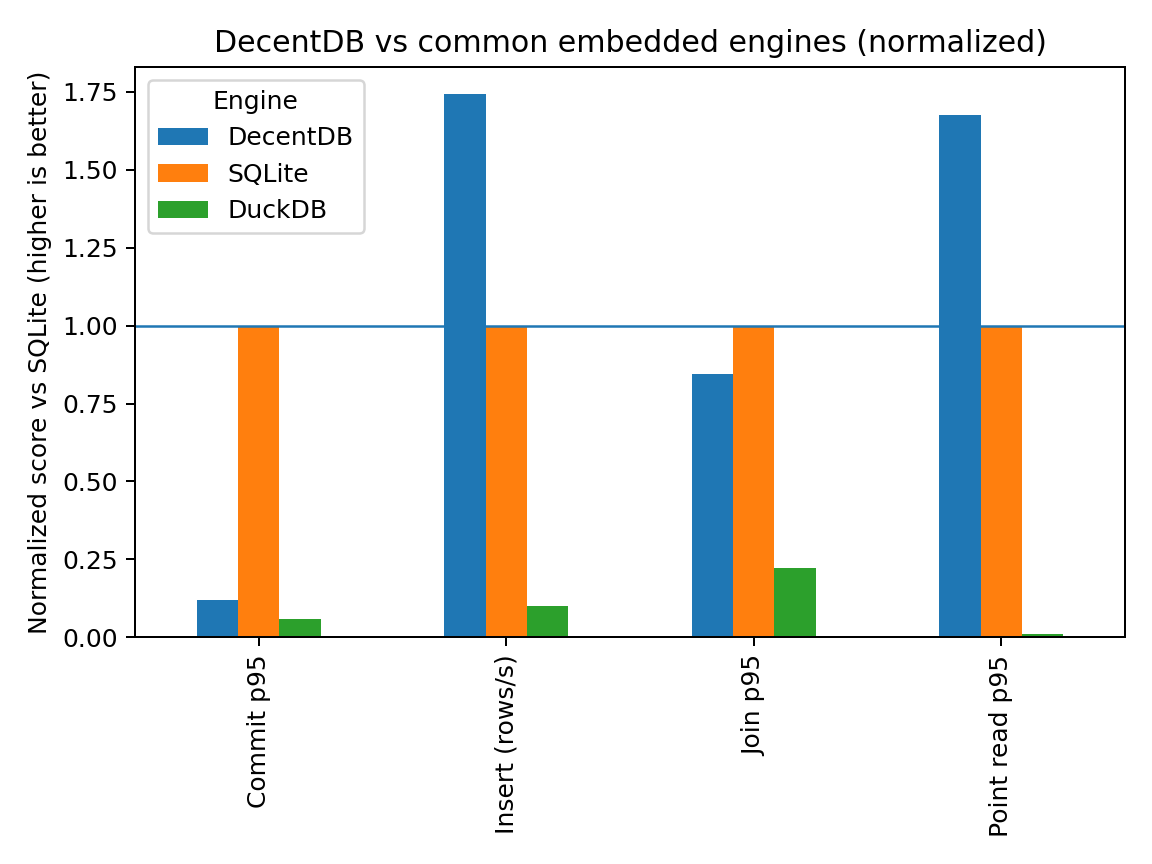
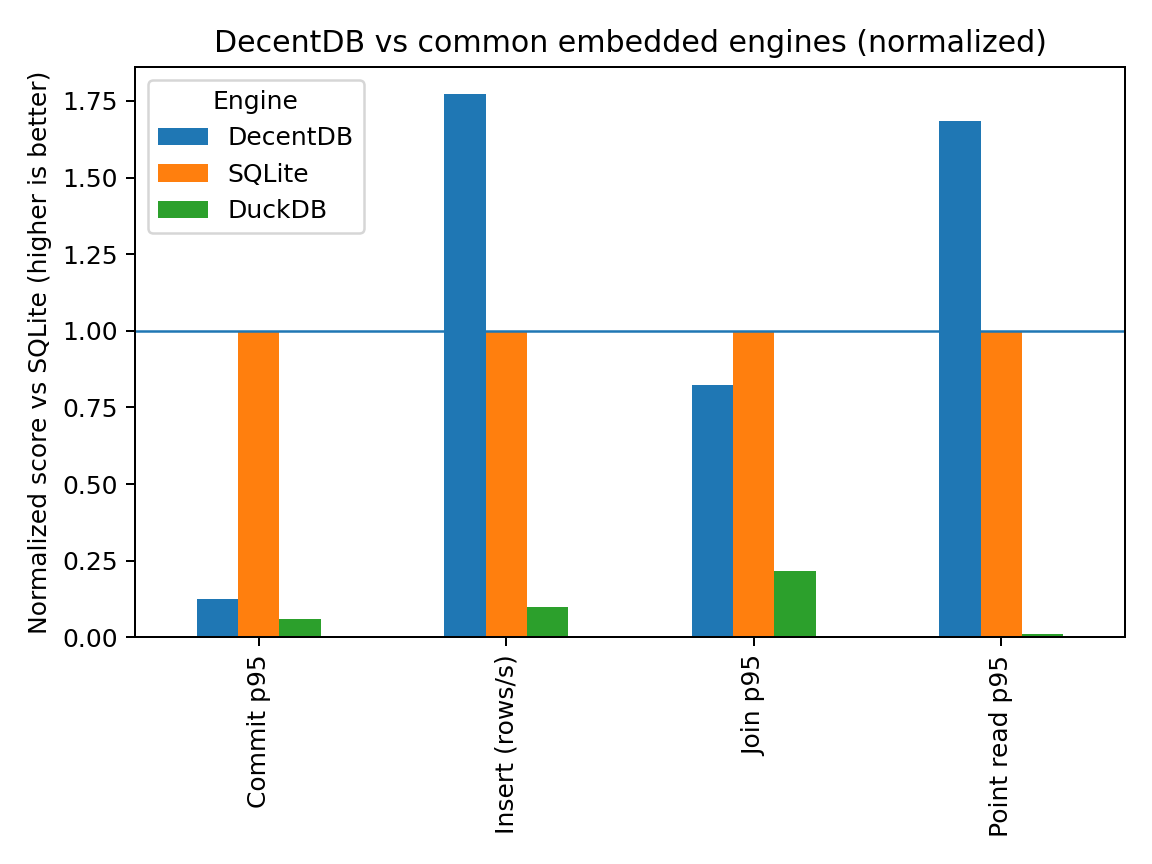
perf: single-page pending fast path (bench: 0.0794645 -> 0.0790035)

diff --git a/design/SQLITE_PERF_GAP_PLAN.md b/design/SQLITE_PERF_GAP_PLAN.md
@@ -1,9 +1,9 @@
 # DecentDB → SQLite Commit Latency Performance Gap Plan
 
 **Current Status:**
-- DecentDB p95 commit latency: ~0.0795ms (after optimizations)
-- SQLite p95 commit latency: ~0.00941ms
-- **Gap:** ~8.45x slower
+- DecentDB p95 commit latency: ~0.0790ms (after optimizations)
+- SQLite p95 commit latency: ~0.00980ms
+- **Gap:** ~8.06x slower
 
 **Goal:** Define the architectural changes needed to achieve <2x SQLite's commit latency (<0.020ms)
 
@@ -954,4 +954,20 @@ DecentDB vs SQLite (commit latency gap: **14.61×**)
 
 **SQLite reference (same run):** commit_p95_ms = 0.009408 → gap **8.45×**  
 **Correctness/Durability:** LSNs now derived from WAL byte offsets; WAL format version bumped to v6 (new DBs only).  
+**Follow-ups:** Next medium effort: simplify frame header (remove payload length / frame type) or unify page representation for zero-copy WAL writes (ADR required).
+
+### 6) Single-page pending fast path (Section 2: Memory Copying and Buffer Allocation)
+**Change:** Avoid allocating the pending queue for single-page commits by storing the first pending page inline.  
+**Bench (run_id: 20260205_194416)**  
+
+| Metric | Before | After | Notes |
+|---|---:|---:|---|
+| commit_p95_ms | 0.0794645 | 0.0790035 | **Improved** (~0.6%) |
+| read_p95_ms | 0.0011725 | 0.001172 | Flat |
+| join_p95_ms | 0.44195 | 0.4491985 | +1.6% (within noise) |
+| insert_rows_per_sec | 201,869.72 | 201,193.70 | -0.3% (within noise) |
+| db_size_mb (bytes/1e6) | 0.086016 | 0.086016 | Unchanged |
+
+**SQLite reference (same run):** commit_p95_ms = 0.009799 → gap **8.06×**  
+**Correctness/Durability:** No changes to WAL semantics or recovery.  
 **Follow-ups:** Next medium effort: simplify frame header (remove payload length / frame type) or unify page representation for zero-copy WAL writes (ADR required).
